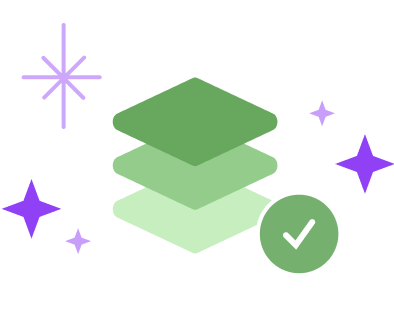
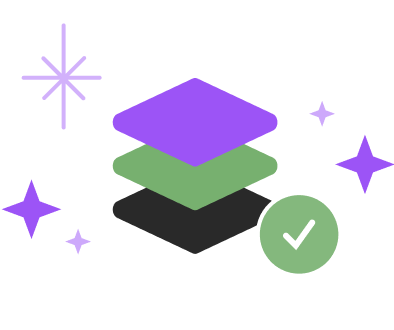
Kevin/ethos 845 add currently staking section to (#180)
* add Staking info to home page

* refactor to use memo for StakedInfo

* fixup HomePage integration tests

* make entirety of StakedInfo clickable

* swap in new staking intro png

* stakes template eslint fixup

diff --git a/src/test/HomePage.integration.test.tsx b/src/test/HomePage.integration.test.tsx
@@ -1,10 +1,10 @@
 import { screen, within } from '@testing-library/react';
 
+import { MockJsonRpc } from '_src/test/utils/mock-json-rpc';
 import { mockCommonCalls, mockSuiObjects } from '_src/test/utils/mockchain';
 import { renderApp } from '_src/test/utils/react-rendering';
 import { simulateMnemonicUser } from '_src/test/utils/storage';
 import { makeTestDeps } from '_src/test/utils/test-dependencies';
-import { MockJsonRpc } from '_src/test/utils/mock-json-rpc';
 
 describe('Rendering the Home page', () => {
     let mockJsonRpc: MockJsonRpc;
@@ -15,7 +15,16 @@ describe('Rendering the Home page', () => {
     });
 
     test('when wallet has no coins', async () => {
-        mockSuiObjects(mockJsonRpc);
+        mockSuiObjects(mockJsonRpc, {
+            stakedSui: [
+                {
+                    principal: '1000000000',
+                },
+                {
+                    principal: '1000000000',
+                },
+            ],
+        });
         renderApp();
         await screen.findByText('Get started with Sui');
     });
@@ -24,6 +33,14 @@ describe('Rendering the Home page', () => {
         beforeEach(async () => {
             mockSuiObjects(mockJsonRpc, {
                 suiBalance: 40000000000,
+                stakedSui: [
+                    {
+                        principal: '1000000000',
+                    },
+                    {
+                        principal: '1000000000',
+                    },
+                ],
             });
         });
         test('shows the USD amount when configured to do so', async () => {
@@ -63,6 +80,30 @@ describe('Rendering the Home page', () => {
             const coinList = await screen.findByTestId('coin-list');
             expect(within(coinList).queryByText('$4,000.00')).toBeNull();
             await within(coinList).findByText('40 SUI');
+        });
+    });
+
+    describe('when the wallet has staked SUI', () => {
+        beforeEach(async () => {
+            mockSuiObjects(mockJsonRpc, {
+                stakedSui: [
+                    {
+                        principal: '1000000000',
+                    },
+                    {
+                        principal: '1000000000',
+                    },
+                ],
+            });
+        });
+
+        test('shows staked SUI total', async () => {
+            renderApp();
+
+            const stakedInfo = await screen.findByTestId('staked-sui-info');
+
+            await within(stakedInfo).findByText('Go to Staking');
+            await within(stakedInfo).findByText('2 SUI');
         });
     });
 });

diff --git a/src/test/utils/mockchain.ts b/src/test/utils/mockchain.ts
@@ -2,7 +2,7 @@ import { renderTemplate } from './json-templates';
 import { makeCoinObject } from '_src/test/utils/mockchain-templates/coinObject';
 import { makeDryRunTransactionResponse } from '_src/test/utils/mockchain-templates/dryRunTransaction';
 import { suiSystemStateObject } from '_src/test/utils/mockchain-templates/sui-system-state';
-import type { CoinBalance } from '@mysten/sui.js';
+import type { CoinBalance, DelegatedStake } from '@mysten/sui.js';
 import type { MockJsonRpc } from '_src/test/utils/mock-json-rpc';
 
 export const mockCommonCalls = (mockJsonRpc: MockJsonRpc) => {
@@ -32,12 +32,14 @@ export const mockSuiObjects = (
     options: {
         suiBalance?: number;
         nftDetails?: { name: string };
+        stakedSui?: { principal: string }[];
         logObjects?: boolean;
     } = {}
 ) => {
     const fullObjects = [];
     const objectInfos = [];
     const coinBalances = [];
+    const stakedSui: DelegatedStake[] = [];
     if (options.suiBalance) {
         const objId = '0xfd9cff9fd6befa0e7d6481d0eeae02056b2ca46e';
         const coinObject = makeCoinObject(options.suiBalance, objId);
@@ -80,6 +82,34 @@ export const mockSuiObjects = (
         objectInfos.push(nftObjectInfo);
         fullObjects.push(renderedNftResult);
     }
+    if (options.stakedSui) {
+        options.stakedSui.forEach((stake, i) => {
+            stakedSui.push({
+                validatorAddress:
[1 lines of base64/hex data omitted]
+                stakingPool:
[1 lines of base64/hex data omitted]
+                stakes: [
+                    {
+                        stakedSuiId: `0xd32356af50f7aa6f26b89657c798968eaf5db3d43479ae793a01125e746ee9${i}c`,
+                        stakeRequestEpoch: '778',
+                        stakeActiveEpoch: '779',
+                        principal: stake.principal,
+                        status: 'Active',
+                        estimatedReward: '2388556',
+                    },
+                ],
+            });
+        });
+    }
+
+    mockJsonRpc.mockBlockchainCall(
+        {
+            method: 'suix_getStakes',
+        },
+        stakedSui,
+        true
+    );
 
     mockJsonRpc.mockBlockchainCall(
         { method: 'suix_getOwnedObjects' },

diff --git a/src/ui/app/pages/home/home/index.tsx b/src/ui/app/pages/home/home/index.tsx
@@ -1,9 +1,7 @@
-// Copyright (c) 2022, Mysten Labs, Inc.
-// SPDX-License-Identifier: Apache-2.0
-
 import { SUI_TYPE_ARG } from '@mysten/sui.js';
 
 import CoinList from './CoinList';
+import StakedInfo from './StakedInfo';
 import WalletBalanceAndIconHomeView from './WalletBalanceAndIconHomeView';
 import { DappList } from './dapp/DappList';
 import ChainIndicator from '../../dapp-tx-approval/types/ChainIndicator';
@@ -11,6 +9,7 @@ import { useAppSelector } from '_hooks';
 import { accountAggregateBalancesSelector } from '_redux/slices/account';
 import { LinkType } from '_src/enums/LinkType';
 import { DASHBOARD_LINK } from '_src/shared/constants';
+import { useTotalStakedSUI } from '_src/ui/app/hooks/staking/useTotalStakedSUI';
 import { useFavoriteDapps } from '_src/ui/app/hooks/useFavoriteDapps';
 import SendReceiveButtonGroup from '_src/ui/app/shared/buttons/SendReceiveButtonGroup';
 import Body from '_src/ui/app/shared/typography/Body';
@@ -23,6 +22,9 @@ import type { AccountInfo } from '_src/ui/app/KeypairVault';
 function HomePage() {
     const { favoriteDappsForCurrentNetwork, favoriteDapps } =
         useFavoriteDapps();
+    const { totalActivePendingStakedSUI, isLoading: isLoadingStakedSui } =
+        useTotalStakedSUI();
+
     const [selectedApiEnv] = useAppSelector(({ app }) => [app.apiEnv]);
 
     const balances = useAppSelector(accountAggregateBalancesSelector);
@@ -56,6 +58,14 @@ function HomePage() {
             <SendReceiveButtonGroup mistBalance={mistBalance} />
             <div className="flex flex-col gap-6 overflow-auto">
                 <ContentBlock>
+                    {!isLoadingStakedSui && (
+                        <StakedInfo
+                            totalActivePendingStakedSUI={
+                                totalActivePendingStakedSUI
+                            }
+                        />
+                    )}
+
                     <CoinList balances={balances} />
 
                     {(!balances || Object.keys(balances).length < 2) && (

diff --git a/src/ui/app/pages/home/home/dapp/dapps/Staking/StakingHome.tsx b/src/ui/app/pages/home/home/dapp/dapps/Staking/StakingHome.tsx
@@ -3,29 +3,11 @@ import { useMemo } from 'react';
 import ExistingStake from './ExistingStake';
 import StakingIntro from './StakingIntro';
 import Loading from '_src/ui/app/components/loading';
-import { useAppSelector } from '_src/ui/app/hooks';
-import useGetDelegatedStakes from '_src/ui/app/hooks/staking/useGetDelegatedStakes';
+import { useTotalStakedSUI } from '_src/ui/app/hooks/staking/useTotalStakedSUI';
 
 const StakingHome: React.FC = () => {
-    const { address } = useAppSelector(({ account }) => account);
-    const { data: delegatedStakes, isLoading } = useGetDelegatedStakes(
-        address || ''
-    );
-
-    // Total active stake for all delegations
-    const totalActivePendingStake = useMemo(() => {
-        if (!delegatedStakes) return BigInt(0);
-
-        return delegatedStakes.reduce(
-            (acc, curr) =>
-                curr.stakes.reduce(
-                    (total, { principal }) => total + BigInt(principal),
-                    acc
-                ),
-
-            BigInt(0)
-        );
-    }, [delegatedStakes]);
+    const { delegatedStakes, totalActivePendingStakedSUI, isLoading } =
+        useTotalStakedSUI();
 
     const totalStakeEarnedRewards = useMemo(() => {
         if (!delegatedStakes) return BigInt(0);
@@ -43,10 +25,10 @@ const StakingHome: React.FC = () => {
     return (
         <div className="flex w-full h-full items-center place-content-center">
             <Loading loading={isLoading} big={true}>
-                {delegatedStakes && !!totalActivePendingStake ? (
+                {delegatedStakes && !!totalActivePendingStakedSUI ? (
                     <ExistingStake
                         delegatedStakes={delegatedStakes}
-                        amountStaked={totalActivePendingStake}
+                        amountStaked={totalActivePendingStakedSUI}
                         totalStakeEarnedRewards={totalStakeEarnedRewards}
                     />
                 ) : (

diff --git a/src/ui/app/pages/home/home/StakedInfo.tsx b/src/ui/app/pages/home/home/StakedInfo.tsx
@@ -1,0 +1,50 @@
+import { SUI_TYPE_ARG } from '@mysten/sui.js';
+import { memo } from 'react';
+import { Link } from 'react-router-dom';
+
+import StakingLogo from '_images/dapps/logos/staking.png';
+import { useFormatCoin } from '_src/ui/app/hooks';
+import Body from '_src/ui/app/shared/typography/Body';
+import BodyLarge from '_src/ui/app/shared/typography/BodyLarge';
+
+interface StakedInfoProps {
+    totalActivePendingStakedSUI: bigint;
+}
+const StakedInfo: React.FC<StakedInfoProps> = ({
+    totalActivePendingStakedSUI,
+}) => {
+    const [formattedStakedSui, symbol] = useFormatCoin(
+        totalActivePendingStakedSUI,
+        SUI_TYPE_ARG
+    );
+
+    return (
+        <div data-testid="staked-sui-info">
+            <Body className="ml-1 mb-2">Currently Staked SUI</Body>
+            <Link to="/home/staking">
+                <div className="flex w-full mb-4 rounded-lg bg-ethos-light-background-light-grey dark:bg-ethos-dark-background-light-grey">
+                    <img
+                        src={StakingLogo}
+                        alt="staking logo"
+                        className="object-cover w-[60px] h-[60px] rounded-l-lg"
+                    />
+                    <div className="flex w-full justify-between items-center px-4">
+                        <BodyLarge isSemibold>
+                            {formattedStakedSui} {symbol}
+                        </BodyLarge>
+                        <Body
+                            isSemibold
+                            className="text-ethos-light-primary-light dark:text-ethos-dark-primary-dark"
+                        >
+                            {totalActivePendingStakedSUI
+                                ? 'Go to Staking'
+                                : 'Stake'}
+                        </Body>
+                    </div>
+                </div>
+            </Link>
+        </div>
+    );
+};
+
+export default memo(StakedInfo);

diff --git a/src/ui/app/hooks/staking/useTotalStakedSUI.ts b/src/ui/app/hooks/staking/useTotalStakedSUI.ts
@@ -1,0 +1,33 @@
+import { useMemo } from 'react';
+
+import useGetDelegatedStakes from './useGetDelegatedStakes';
+import useAppSelector from '../useAppSelector';
+
+export const useTotalStakedSUI = () => {
+    const { address } = useAppSelector(({ account }) => account);
+    const { data: delegatedStakes, ...queryResults } = useGetDelegatedStakes(
+        address || ''
+    );
+
+    // Total active stake for all delegations
+    const totalActivePendingStakedSUI = useMemo(() => {
+        if (!delegatedStakes) return BigInt(0);
+
+        return delegatedStakes.reduce(
+            (acc, curr) => {
+                return curr.stakes.reduce(
+                    (total, { principal }) => total + BigInt(principal),
+                    acc
+                );
+            },
+
+            BigInt(0)
+        );
+    }, [delegatedStakes]);
+
+    return {
+        ...queryResults,
+        delegatedStakes,
+        totalActivePendingStakedSUI,
+    };
+};

diff --git a/src/test/utils/mockchain-templates/stakes.ts b/src/test/utils/mockchain-templates/stakes.ts
@@ -1,0 +1,25 @@
+interface MakeStakeObjectParams {
+    stakeCount: number;
+    stakePrincipal: string;
+}
+export const makeStakeObjects = ({
+    stakeCount,
+    stakePrincipal,
+}: MakeStakeObjectParams) => {
+    return [...Array(stakeCount || 1)].map((_, i) => ({
+        validatorAddress:
[1 lines of base64/hex data omitted]
+        stakingPool:
[1 lines of base64/hex data omitted]
+        stakes: [
+            {
+                stakedSuiId: `0xd32356af50f7aa6f26b89657c798968eaf5db3d43479ae793a01125e746ee9${i}c`,
+                stakeRequestEpoch: '778',
+                stakeActiveEpoch: '779',
+                principal: stakePrincipal,
+                status: 'Active',
+                estimatedReward: '2388556',
+            },
+        ],
+    }));
+};

diff --git a/src/ui/app/pages/home/home/CoinList.tsx b/src/ui/app/pages/home/home/CoinList.tsx
@@ -1,8 +1,10 @@
 import CoinBalanceElement from './CoinBalance';
+import Body from '_src/ui/app/shared/typography/Body';
 
 const CoinList = ({ balances }: { balances: Record<string, bigint> }) => {
     return (
         <div className="text-left space-y-2" data-testid="coin-list">
+            <Body className="ml-1">My Tokens</Body>
             {Object.keys(balances).map((type: string) => {
                 const balance = balances[type];
                 return (

diff --git a/src/ui/app/hooks/staking/useGetDelegatedStakes.ts b/src/ui/app/hooks/staking/useGetDelegatedStakes.ts
@@ -9,7 +9,8 @@ export default function useGetDelegatedStakes(
     address: string
 ): UseQueryResult<DelegatedStake[], Error> {
     const rpc = api.instance.fullNode;
-    return useQuery(['validator', address], () =>
-        rpc.getStakes({ owner: address })
-    );
+
+    return useQuery(['validator', address], () => {
+        return rpc.getStakes({ owner: address });
+    });
 }
